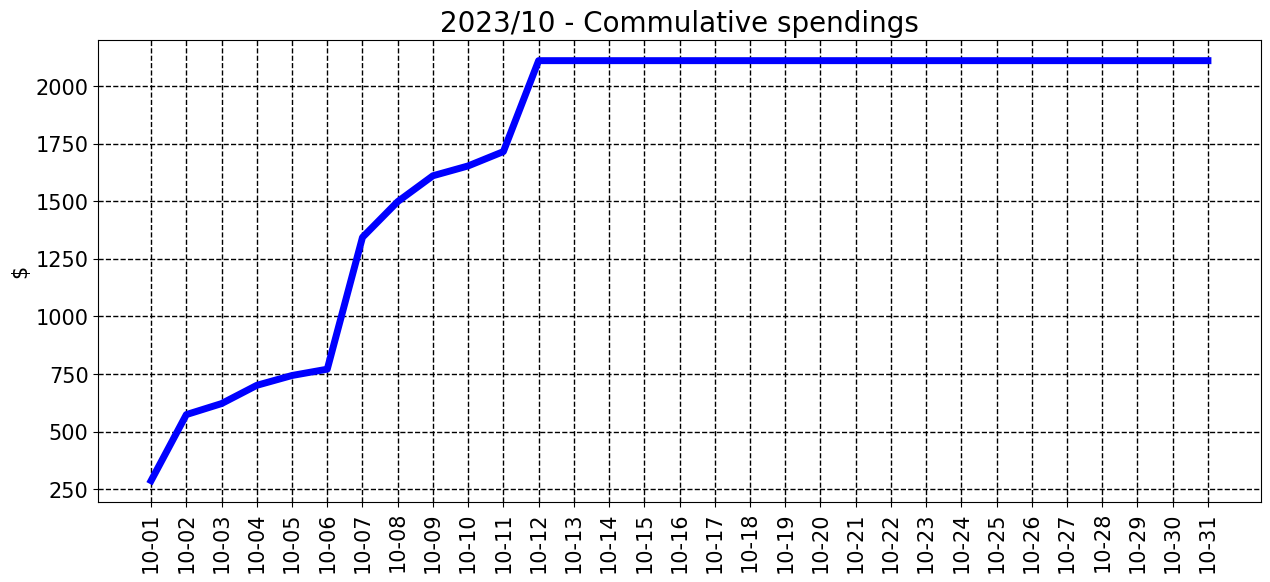
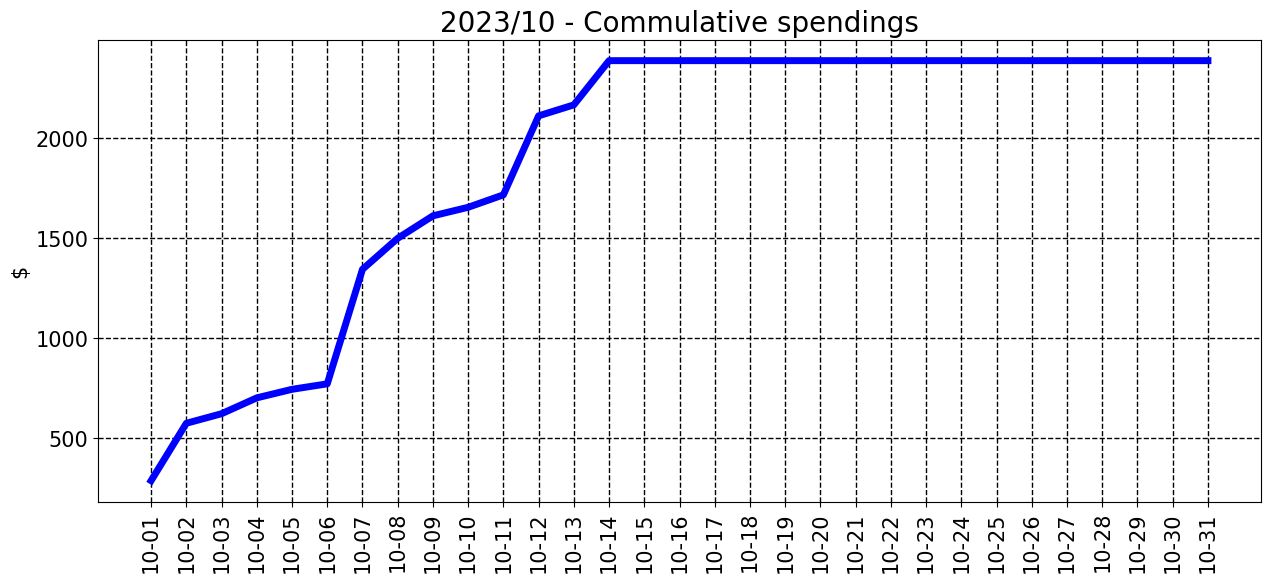
commit from python

Changed region(s): [[0.0307, 0.0928, 1.0, 0.8041], [0.0307, 0.8351, 0.9827, 0.866]]

diff --git a/README.md b/README.md
@@ -7,7 +7,7 @@ __________________________________
 <sub><sup>
 | Spent | Avg daily | End of month projection | Spent since 2023/7 |
 |---|---|---|---|
-| $2110.0  |  $162.3  | $5031.0  |  $17469.0  |
+| $2386.0  |  $170.4  | $5282.0  |  $17745.0  |
 </sub></sup>
 __________________________________
 ![graph_10_sum](graph_10_sum.png)
